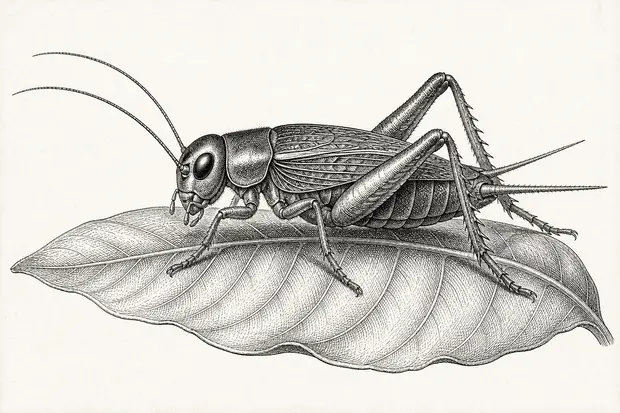
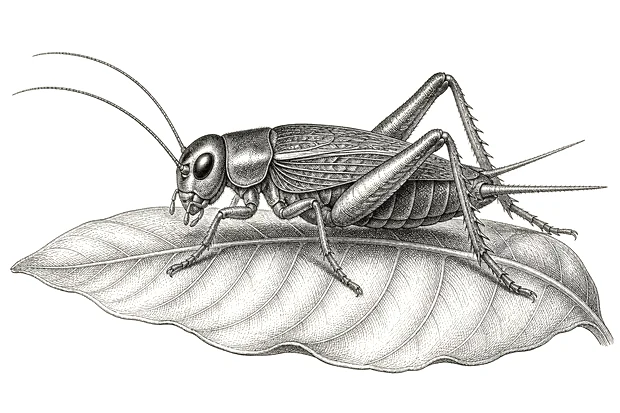
dietas ilustradas, grillo sobre blanco y ajustes del modo voz
Las tres comidas se nombraban como codigos -D1, D2, D3- y un codigo no dice
nada. Ahora tienen dibujo, en el mismo trazo de linea de las figuras del chat:
el cuenco de harina con la planta de la que sale al lado.

- Se ven en /proyecto, en su propia seccion, con la base comun explicada una
  vez. Y el asistente las muestra cuando preguntan por una comida: antes una
  regla mia -'para lo que no sea la caja, ningun dibujo'- las dejaba fuera.
- Pesan 32, 35 y 37 KB. En dibujo de linea se bajo la RESOLUCION y no la
  calidad: bajando calidad el trazo se ensucia, y quien entra desde el campo
  tiene datos contados.

- La lamina del grillo de la portada tenia el papel en crema (249,243,238) y
  las demas en blanco puro. Al multiplicar contra el fondo dejaba un
  rectangulo visible. Se le llevo el punto blanco a 255 con un estirado suave,
  no con un umbral: recortar por umbral deja el trazo dentado.

- En manos libres, cuando una linea no trae dibujo propio ahora se cae al
  PRIMERO y no al ultimo. Al empezar a oir un paso a paso lo coherente es ver
  el primer paso, no el final.

- La espera antes de enviar la pregunta sube a la mitad: 850 ms tras el cierre
  del navegador, 1200 corriente, 2000 al arrancar. 550 resultaron demasiado
  vivos.

Changed region(s): [[0.1226, 0.6392, 0.7661, 0.8717], [0.0613, 0.523, 0.2758, 0.6392], [0.7968, 0.7264, 0.8581, 0.8136]]

diff --git a/web/src/app/proyecto/page.tsx b/web/src/app/proyecto/page.tsx
@@ -147,6 +147,40 @@ export default function ProjectPage() {
         </ul>
       </section>
 
+      {/* Las tres comidas, para que se vean y no solo se nombren.
+          Arriba se leen como códigos —D1, D2, D3— y un código no dice nada:
+          viendo la planta al lado del cuenco se entiende de qué está hecha
+          cada una sin leer una linea mas. */}
+      <section className="mt-12">
+        <h2 className="font-display text-[1.35rem] font-extrabold tracking-[-0.02em]">
+          Las tres comidas en estudio
+        </h2>
+        <ul className="mt-6 grid gap-6 border-t pt-8 sm:grid-cols-3">
+          {[
+            { id: "dieta-bore", codigo: "D1", nombre: "Harina de bore" },
+            { id: "dieta-boton-oro", codigo: "D2", nombre: "Harina de botón de oro" },
+            { id: "dieta-salvado", codigo: "D3", nombre: "Salvado de trigo" },
+          ].map((d) => (
+            <li key={d.id}>
+              <Image
+                src={`/figuras/${d.id}.webp`}
+                alt=""
+                width={780}
+                height={540}
+                aria-hidden
+                className="lamina h-auto w-full"
+              />
+              <p className="rotulo mt-2 text-primary">{d.codigo}</p>
+              <p className="mt-1 text-[15px] font-semibold">{d.nombre}</p>
+            </li>
+          ))}
+        </ul>
+        <p className="mt-5 text-[14px] leading-relaxed text-muted-foreground">
+          Las tres llevan la misma base: 10 % de harina de choclo y 10 % de
+          avena en hojuelas. Lo que cambia es el 80 % principal.
+        </p>
+      </section>
+
       {/* Créditos de las fotografías */}
       <Image
         src="/arte/caja-cria.webp"

diff --git a/web/src/components/figura.tsx b/web/src/components/figura.tsx
@@ -163,6 +163,27 @@ export const FIGURAS: DefinicionFigura[] = [
       "Cuando pregunten cómo cosechar, cómo separar los grillos del sustrato o en qué guardarlos.",
   },
   {
+    id: "dieta-bore",
+    titulo: "D1: harina de bore",
+    alt: "Un cuenco con harina fina y, al lado, una hoja grande de bore con su nervadura y un trozo de tallo.",
+    cuando:
+      "Cuando pregunten por la dieta D1, por el bore, o pidan ver de qué está hecha esa comida.",
+  },
+  {
+    id: "dieta-boton-oro",
+    titulo: "D2: harina de botón de oro",
+    alt: "Un cuenco con harina fina y, al lado, una rama de botón de oro con dos flores abiertas y hojas lobuladas.",
+    cuando:
+      "Cuando pregunten por la dieta D2, por el botón de oro, o pidan ver de qué está hecha esa comida.",
+  },
+  {
+    id: "dieta-salvado",
+    titulo: "D3: salvado de trigo",
+    alt: "Un cuenco con salvado de trigo en escamas y, al lado, tres espigas de trigo con sus granos y una cuchara de madera.",
+    cuando:
+      "Cuando pregunten por la dieta D3, por el salvado de trigo, o pidan ver de qué está hecha esa comida.",
+  },
+  {
     id: "clima",
     titulo: "El termómetro colgado adentro",
     alt: "Un termómetro-higrómetro digital pequeño colgado en la pared interior de la caja.",

diff --git a/web/src/lib/voz.ts b/web/src/lib/voz.ts
@@ -77,10 +77,16 @@ export function useDictado(alTerminar: (texto: string) => void) {
    * silencio de verdad.
    */
   const silencio = useRef<number | null>(null);
-  const ESPERA_INICIAL_MS = 1800;
-  const ESPERA_CORRIENTE_MS = 1000;
-  /** Cuando el navegador ya dio la frase por cerrada. */
-  const ESPERA_TRAS_CIERRE_MS = 550;
+  const ESPERA_INICIAL_MS = 2000;
+  const ESPERA_CORRIENTE_MS = 1200;
+  /**
+   * Cuando el navegador ya dio la frase por cerrada.
+   *
+   * A mitad de camino: 550 ms resultaron demasiado vivos —cortaba antes de
+   * que uno terminara de pensar la frase— y los 1700 de antes se sentian
+   * lentos. Este valor es el que se ajusta si vuelve a desbalancearse.
+   */
+  const ESPERA_TRAS_CIERRE_MS = 850;
   /** Cuando el navegador cierra solo pero seguimos queriendo escuchar. */
   const queremosOir = useRef(false);
 

diff --git a/web/src/components/manos-libres.tsx b/web/src/components/manos-libres.tsx
@@ -310,11 +310,12 @@ export function ManosLibres({
   /**
    * El dibujo que toca AHORA, segun la linea que se esta diciendo.
    *
-   * Mientras habla va cambiando con la voz. Cuando ya no suena se deja el
-   * ultimo que salio, para que quede algo que mirar mientras se relee.
+   * Mientras habla va cambiando con la voz. Cuando la linea no tiene dibujo
+   * propio —porque la respuesta arranca con una frase antes del primer
+   * marcador— se cae al PRIMERO, no al ultimo: al empezar a oir un paso a
+   * paso lo coherente es ver el primer paso, no el final.
    */
-  const figura =
-    guion.dibujos[activa] ?? [...guion.dibujos].reverse().find(Boolean);
+  const figura = guion.dibujos[activa] ?? guion.dibujos.find(Boolean);
 
   const caja = useRef<HTMLDivElement>(null);
 

diff --git a/web/src/lib/system-prompt.ts b/web/src/lib/system-prompt.ts
@@ -235,7 +235,12 @@ Reglas:
   imagen ilustra lo que usted explica, no lo reemplaza. Una foto que aparece
   sin una palabra no le sirve a nadie.
 - Tampoco lo anuncie ("mire esta imagen"): explique, ponga el marcador, siga.
-- Para una pregunta que no sea de armado o manejo de la caja, no ponga ninguno.`;
+- Los dibujos sirven para el armado y manejo de la caja, para reconocer los
+  grillos y para las tres comidas en estudio. Si hablan de una comida —bore,
+  botón de oro o salvado de trigo— ponga la suya: se entiende mucho mejor de
+  qué está hecha viéndola. Si nombran las tres, puede poner las tres, cada una
+  antes de su renglón.
+- Para lo demás, no ponga ninguno.`;
 }
 
 /** Contexto de la consulta que el productor tiene abierta. */
